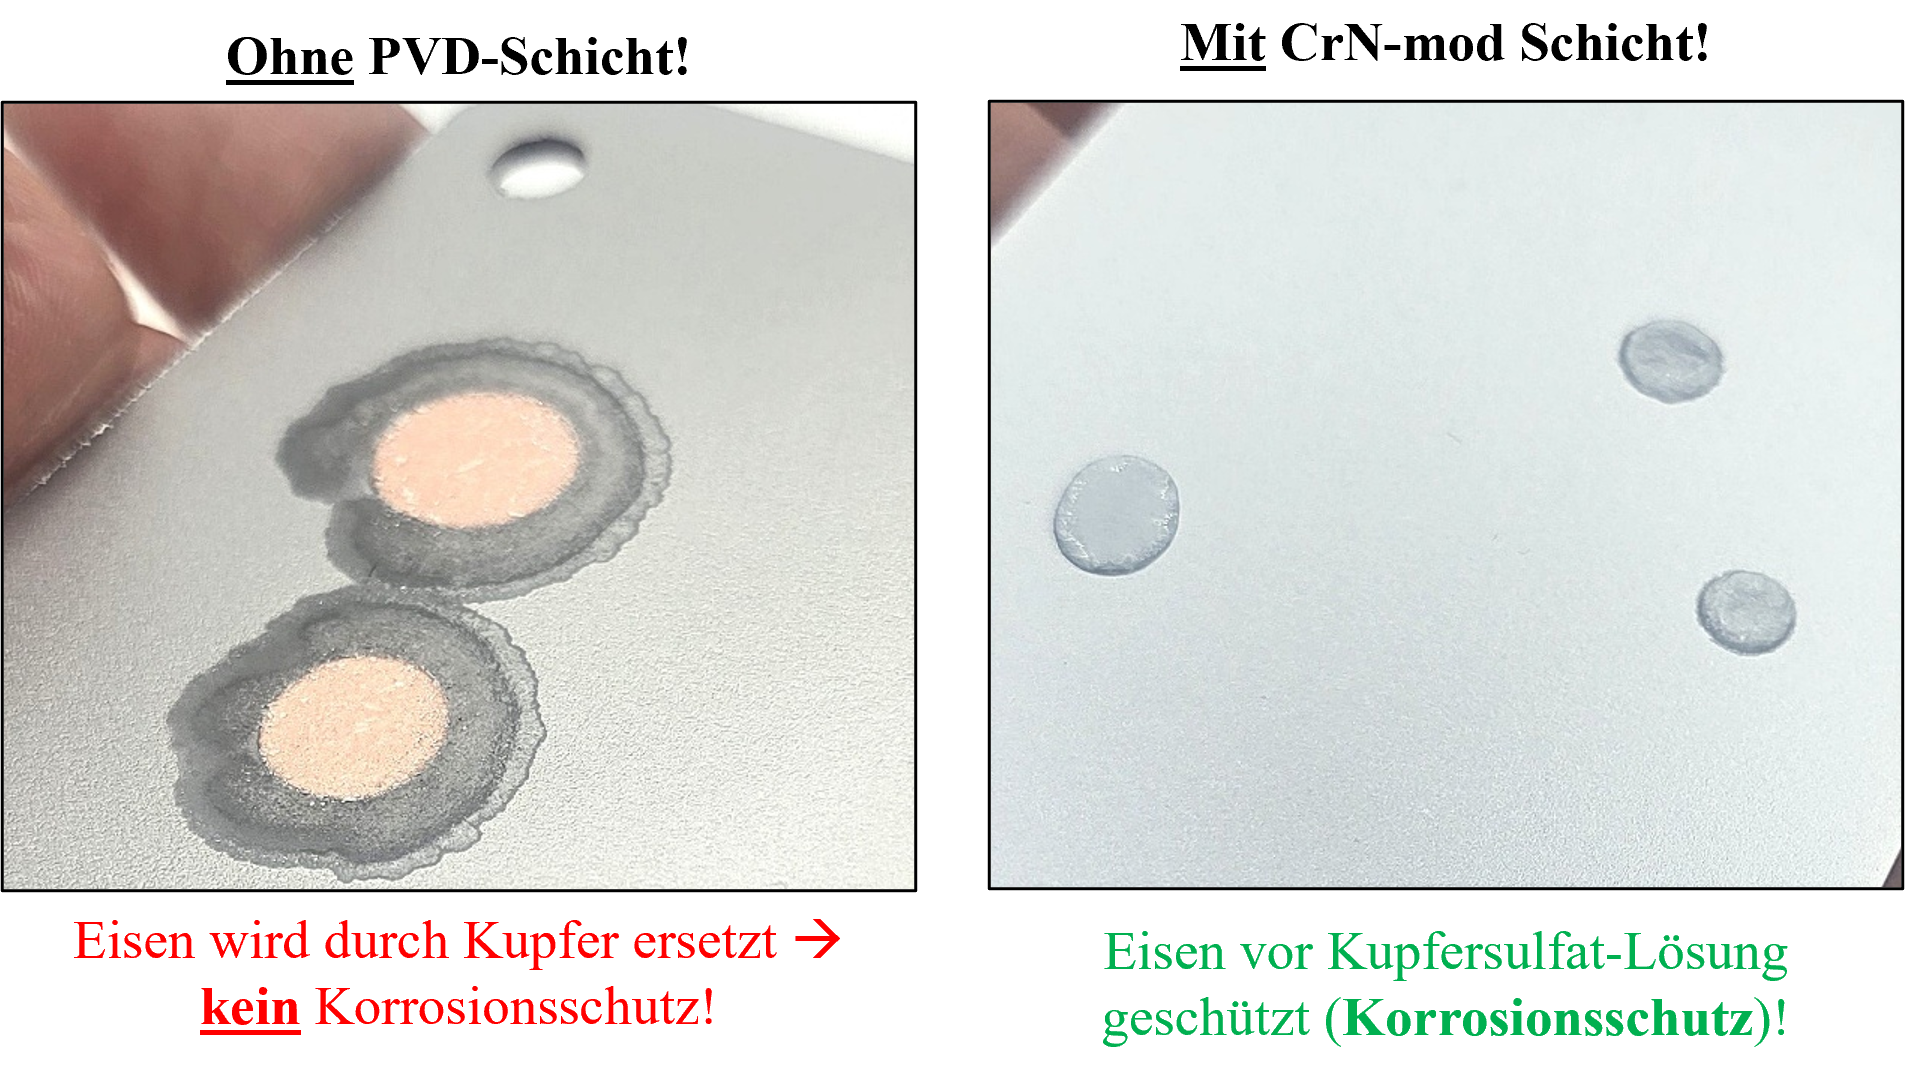
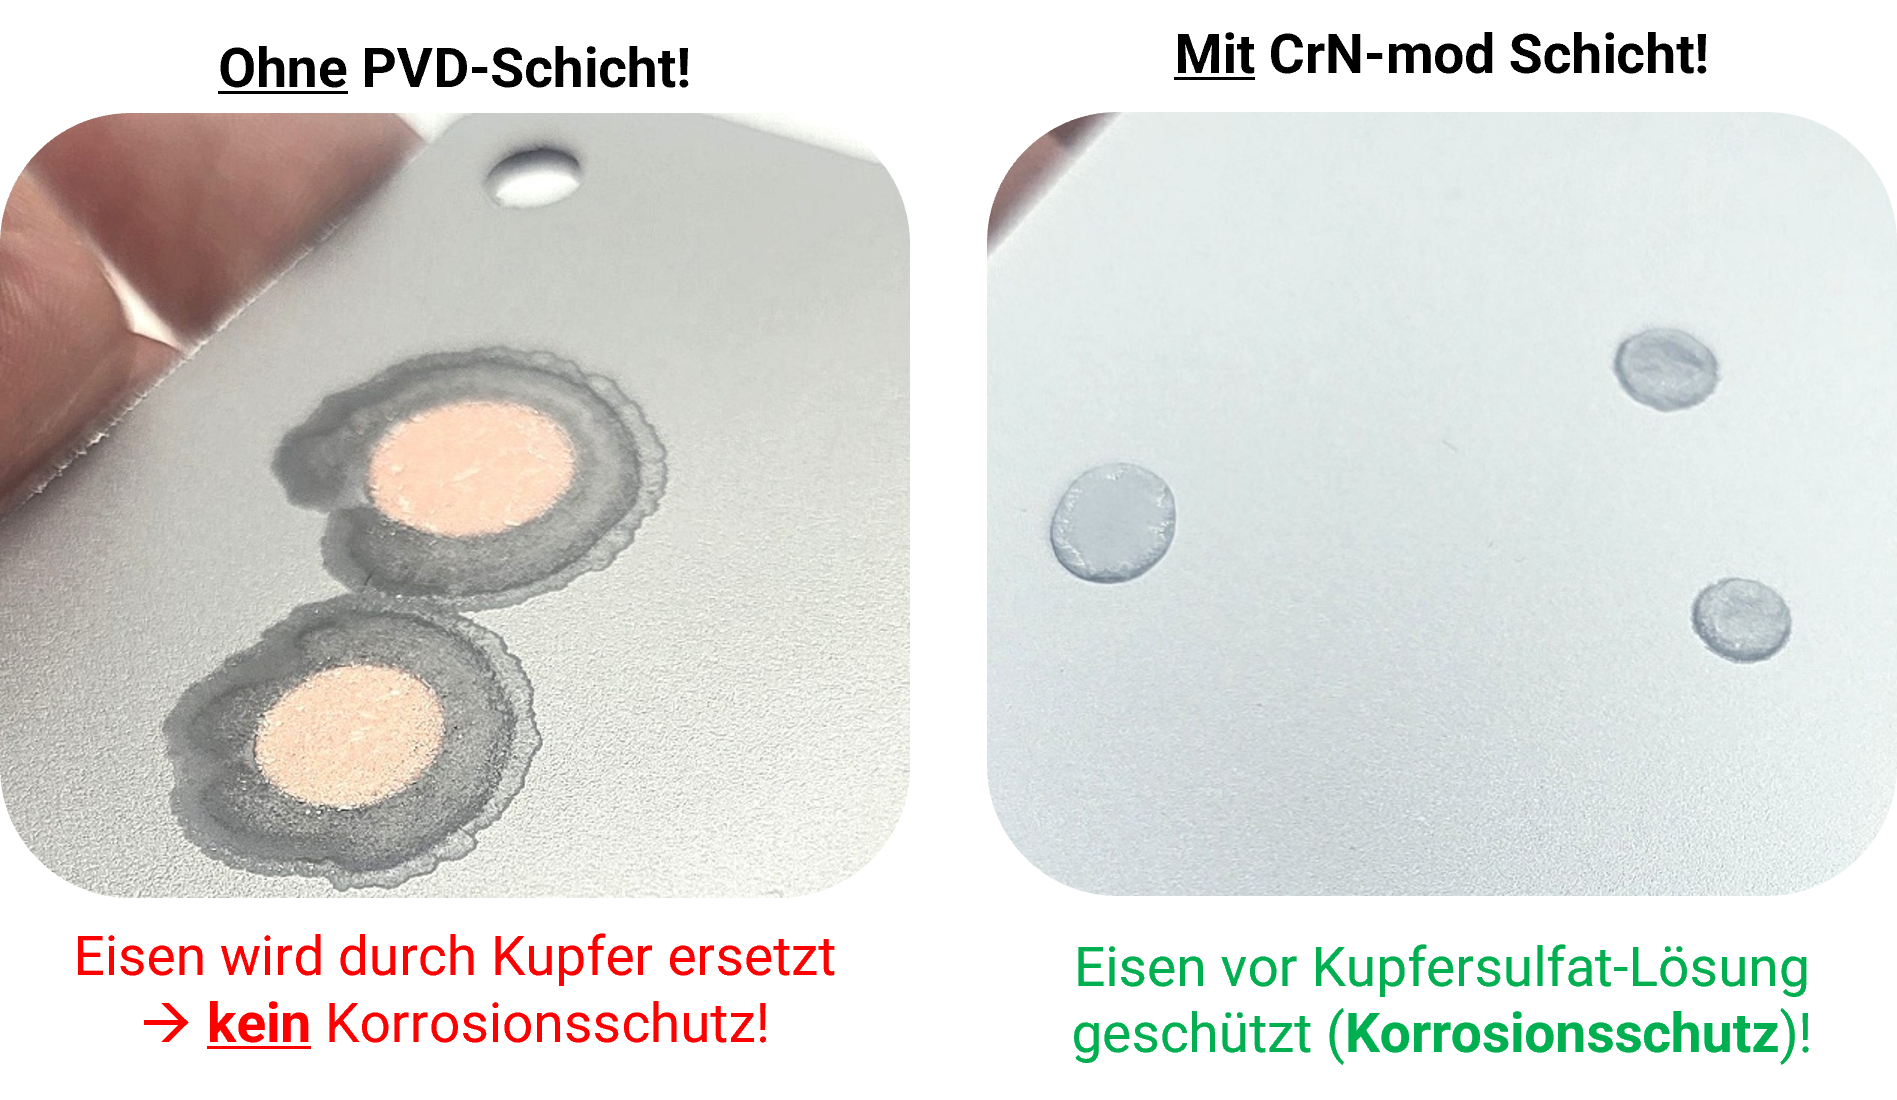
Patientensicherheit überarbeitet

diff --git a/src/pages/patientensicherheit/Patientensicherheit.jsx b/src/pages/patientensicherheit/Patientensicherheit.jsx
@@ -1,4 +1,5 @@
 import React from 'react'
+import { Link } from 'react-router-dom'
 import Container from '../../components/Container'
 import GradientBar from '../../components/GradientBar'
 import GradientCard from '../../components/GradientCard'
@@ -40,18 +41,23 @@ export default function Patientensicherheit() {
         <GradientBar />
         <ul className="list-disc pl-6 space-y-2 text-slate-700 max-w-4xl">
           <li>
-            <span className="font-medium"><strong>Biokompatibilität</strong> nach DIN EN ISO 10993:</span> PVD-Schichten verhindern allergische
-            Reaktionen (z. B. Nickel-Sperrschichten).
+            <span className="font-medium">
+              <Link to="/zertifizierung/biokompatibilitaet" className="font-semibold underline text-blue-700">
+                Biokompatibilität
+              </Link>
+              {' '}nach DIN EN ISO 10993:
+            </span>
+            {' '}PVD-Schichten verhindern allergische Reaktionen (z. B. Nickel-Sperrschichten).
           </li>
           <li>
             <span className="font-medium"><strong>Korrosionsschutz</strong>:</span> Kein Austreten von Metallionen in den Körper.
           </li>
           <li>
-            <span className="font-medium"><strong>Hygiene</strong>:</span> Glatte, verschleißarme Oberflächen → weniger Mikrorisse, geringeres
-            Risiko von Keimanhaftung.
+            <span className="font-medium"><strong>Hygiene</strong>:</span> Glatte, verschleißarme Oberflächen führen zu weniger Mikrorissen, geringerem
+            Risiko von Keimanhaftungen.
           </li>
           <li>
-            <span className="font-medium"><strong>Langlebigkeit</strong>:</span> Weniger Verschleiß → weniger Bruch- oder Ausfallrisiko während einer
+            <span className="font-medium"><strong>Langlebigkeit</strong>:</span> Weniger Verschleiß bedeutet weniger Bruch- oder Ausfallrisiko während einer
             Behandlung.
           </li>
         </ul>
@@ -87,7 +93,7 @@ export default function Patientensicherheit() {
         </GradientCard>
 
         <GradientCard>
-          <h4 className="font-semibold">Beispiel 2: Langlebigkeit</h4>
+          <h4 className="font-semibold">Beispiel 2: Hygiene und Langlebigkeit</h4>
           <div className="aspect-[16/9] mt-4 mb-3 rounded-3xl border border-slate-200/60 shadow-sm overflow-hidden relative bg-white">
             <img
               src={assetUrl('assets/verschleissschutz.png')}

diff --git a/src/index.css b/src/index.css
@@ -3,7 +3,7 @@
 @tailwind utilities;
 
 /* optional small helpers */
-body { font-family: Inter, ui-sans-serif, system-ui, -apple-system, 'Segoe UI', Roboto, 'Helvetica Neue', Arial; }
+body { font-family: Roboto, ui-sans-serif, system-ui, -apple-system, 'Segoe UI', Inter, 'Helvetica Neue', Arial; }
 .container { max-width: 1100px }
 
 /* Button gradient used across header/footer and CTA buttons
